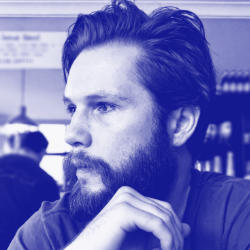
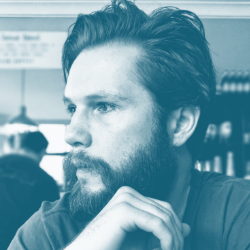
Push to prod

diff --git a/public/js/bundle.js b/public/js/bundle.js
@@ -1024,13 +1024,13 @@ function data$3() {
 }
 
 function encapsulateStyles(node) {
-	setAttribute(node, "svelte-3632610254", "");
+	setAttribute(node, "svelte-3470831650", "");
 }
 
 function add_css() {
 	var style = createElement("style");
-	style.id = 'svelte-3632610254-style';
-	style.textContent = "[svelte-3632610254].-simple,[svelte-3632610254] .-simple,[svelte-3632610254].-detailed,[svelte-3632610254] .-detailed{width:100%;display:grid;grid-template-columns:1fr;grid-gap:30px}[svelte-3632610254].-simple .ui-card,[svelte-3632610254] .-simple .ui-card{box-shadow:none}[svelte-3632610254].-mosaic,[svelte-3632610254] .-mosaic{-moz-column-count:1;-moz-column-gap:20px;-webkit-column-count:1;-webkit-column-gap:20px;column-count:1;column-gap:20px;text-align:center}[svelte-3632610254].-mosaic img,[svelte-3632610254] .-mosaic img{margin-bottom:20px;border-radius:5px}[svelte-3632610254].ui-card__details,[svelte-3632610254] .ui-card__details{border:1px solid #ccc}@media(min-width: 500px){[svelte-3632610254].-simple,[svelte-3632610254] .-simple,[svelte-3632610254].-detailed,[svelte-3632610254] .-detailed{grid-template-columns:repeat(2, 1fr)}[svelte-3632610254].-mosaic,[svelte-3632610254] .-mosaic{-moz-column-count:2;-moz-column-gap:20px;-webkit-column-count:2;-webkit-column-gap:20px;column-count:2}}@media(min-width: 1200px){[svelte-3632610254].-simple,[svelte-3632610254] .-simple,[svelte-3632610254].-detailed,[svelte-3632610254] .-detailed{grid-template-columns:repeat(3, 1fr)}[svelte-3632610254].-mosaic,[svelte-3632610254] .-mosaic{-moz-column-count:3;-moz-column-gap:20px;-webkit-column-count:3;-webkit-column-gap:20px;column-count:3}}[svelte-3632610254].row,[svelte-3632610254] .row{padding-top:2rem;padding-bottom:2rem}[svelte-3632610254].row.-bg,[svelte-3632610254] .row.-bg{background:#f1f1f1}";
+	style.id = 'svelte-3470831650-style';
+	style.textContent = "[svelte-3470831650].-simple,[svelte-3470831650] .-simple,[svelte-3470831650].-detailed,[svelte-3470831650] .-detailed{width:100%;display:grid;grid-template-columns:1fr;grid-gap:30px}[svelte-3470831650].-simple .ui-card,[svelte-3470831650] .-simple .ui-card{box-shadow:none}[svelte-3470831650].-mosaic,[svelte-3470831650] .-mosaic{-moz-column-count:1;-moz-column-gap:20px;-webkit-column-count:1;-webkit-column-gap:20px;column-count:1;column-gap:20px;text-align:center}[svelte-3470831650].-mosaic img,[svelte-3470831650] .-mosaic img{margin-bottom:20px;border-radius:5px}[svelte-3470831650].ui-card__details,[svelte-3470831650] .ui-card__details{border:1px solid #ccc}@media(min-width: 500px){[svelte-3470831650].-simple,[svelte-3470831650] .-simple,[svelte-3470831650].-detailed,[svelte-3470831650] .-detailed{grid-template-columns:repeat(2, 1fr)}[svelte-3470831650].-mosaic,[svelte-3470831650] .-mosaic{-moz-column-count:2;-moz-column-gap:20px;-webkit-column-count:2;-webkit-column-gap:20px;column-count:2}}@media(min-width: 1200px){[svelte-3470831650].-simple,[svelte-3470831650] .-simple,[svelte-3470831650].-detailed,[svelte-3470831650] .-detailed{grid-template-columns:repeat(3, 1fr)}[svelte-3470831650].-mosaic,[svelte-3470831650] .-mosaic{-moz-column-count:3;-moz-column-gap:20px;-webkit-column-count:3;-webkit-column-gap:20px;column-count:3}}[svelte-3470831650].row,[svelte-3470831650] .row{padding-top:2rem;padding-bottom:2rem}[svelte-3470831650].row.-bg,[svelte-3470831650] .row.-bg{background:#f1f1f1}[svelte-3470831650].row.-padded,[svelte-3470831650] .row.-padded{padding-left:1rem;padding-right:1rem}";
 	appendNode(style, document.head);
 }
 
@@ -1092,8 +1092,8 @@ function create_main_fragment$4(state, component) {
 
 		h: function hydrate() {
 			encapsulateStyles(div);
-			div_1.className = div_1_class_value = "ui-container -" + state.type;
-			div.className = div_class_value = "row " + (state.type == 'detailed' ? '-bg' : '');
+			div_1.className = div_1_class_value = "ui-container -" + state.type + " -padded";
+			div.className = div_class_value = "row " + (state.type == 'detailed' ? '-bg' : '') + " -padded";
 		},
 
 		m: function mount(target, anchor) {
@@ -1110,11 +1110,11 @@ function create_main_fragment$4(state, component) {
 				await_block_1.p(changed, state, resolved);
 			}
 
-			if (changed.type && div_1_class_value !== (div_1_class_value = "ui-container -" + state.type)) {
+			if (changed.type && div_1_class_value !== (div_1_class_value = "ui-container -" + state.type + " -padded")) {
 				div_1.className = div_1_class_value;
 			}
 
-			if (changed.type && div_class_value !== (div_class_value = "row " + (state.type == 'detailed' ? '-bg' : ''))) {
+			if (changed.type && div_class_value !== (div_class_value = "row " + (state.type == 'detailed' ? '-bg' : '') + " -padded")) {
 				div.className = div_class_value;
 			}
 		},
@@ -1132,24 +1132,29 @@ function create_main_fragment$4(state, component) {
 	};
 }
 
-// (3:25)     <p>loading...</p>   {{then assets}}
+// (3:25)     <div class="ui-block -center">loading...</div>   {{then assets}}
 function create_pending_block(state, _, component) {
-	var p;
+	var div;
 
 	return {
 		c: function create() {
-			p = createElement("p");
-			p.textContent = "loading...";
+			div = createElement("div");
+			div.textContent = "loading...";
+			this.h();
+		},
+
+		h: function hydrate() {
+			div.className = "ui-block -center";
 		},
 
 		m: function mount(target, anchor) {
-			insertNode(p, target, anchor);
+			insertNode(div, target, anchor);
 		},
 
 		p: noop,
 
 		u: function unmount() {
-			detachNode(p);
+			detachNode(div);
 		},
 
 		d: noop
@@ -1700,7 +1705,7 @@ function Showcase(options) {
 	this._state = assign(data$3(), options.data);
 	this._recompute({ dataUrl: 1 }, this._state);
 
-	if (!document.getElementById("svelte-3632610254-style")) add_css();
+	if (!document.getElementById("svelte-3470831650-style")) add_css();
 
 	this._fragment = create_main_fragment$4(this._state, this);
 
@@ -2099,7 +2104,7 @@ function create_main_fragment$7(state, component) {
 			navigation._fragment.c();
 			text = createText("\n");
 			div = createElement("div");
-			div.innerHTML = "<main role=\"main\" class=\"ui-block\"><div class=\"ui-block ui-collection -center\"><img src=\"./assets/img/profile.jpg\" srcset=\"./assets/img/profile@2x.jpg 2x\" alt=\"\" class=\"ui-image -round\"></div>\n\t\t<section class=\"ui-block\"><h1 class=\"ui-heading -primary -center\">Hello, I'm Simon Layfield</h1>\n\t\t\t<p class=\"ui-callout\">I design and build meaningful user experiences into lightweight, scalable web prototypes using frontend technologies like <a href=\"https://svelte.technology\" target=\"_blank\">Svelte</a> and <a href=\"https://rollupjs.org/guide/en\" target=\"_blank\">Rollup</a>.</p>\n\t\t\t<p>Currently, my free time in this area goes towards my personal project, <a href=\"https://typereel-195923.appspot.com/\" target=\"_blank\" class=\"link\">Typereel</a>.</p>\n\t\t\t<div class=\"ui-block -center\"><hr class=\"ui-separator\"></div>\n\t\t\t<p class=\"ui-callout -small\">Other interests include freelance <a href=\"./branding.html\" class=\"link\">branding and illustration</a>, I co-run an online board game shop called <a href=\"http://www.rollersboardgames.com\" class=\"link\">Rollers</a> and play in a band called <a href=\"https://www.facebook.com/youthandtheyoung/\" target=\"_blank\" class=\"link\">Youth &amp; The Young</a>.</p></section></main>";
+			div.innerHTML = "<main role=\"main\" class=\"ui-block\"><div class=\"ui-block -center\"><img src=\"./assets/img/profile.svg\" alt=\"\" class=\"profile-image\"></div>\n\t\t<section class=\"ui-block -padded\"><h1 class=\"ui-heading -primary -center\">Hello, I'm Simon Layfield</h1>\n\t\t\t<p class=\"ui-callout\">I design and build meaningful user experiences into lightweight, scalable web prototypes using frontend technologies like <a href=\"https://svelte.technology\" target=\"_blank\">Svelte</a> and <a href=\"https://rollupjs.org/guide/en\" target=\"_blank\">Rollup</a>.</p>\n\t\t\t<p>Currently, my free time in this area goes towards my personal project, <a href=\"https://typereel-195923.appspot.com/\" target=\"_blank\" class=\"link\">Typereel</a>.</p>\n\t\t\t<div class=\"ui-block -center\"><hr class=\"ui-separator\"></div>\n\t\t\t<p class=\"ui-callout -small\">Other interests include freelance <a href=\"./branding.html\" class=\"link\">branding and illustration</a>, I co-run an online board game shop called <a href=\"http://www.rollersboardgames.com\" class=\"link\">Rollers</a> and play in a band called <a href=\"https://www.facebook.com/youthandtheyoung/\" target=\"_blank\" class=\"link\">Youth &amp; The Young</a>.</p></section></main>";
 			this.h();
 		},
 

diff --git a/public/css/main.css b/public/css/main.css
@@ -1,1 +1,1 @@
-body{font:normal 16px/32px Inconsolata,sans-serif;font:normal 1rem/2rem Inconsolata,sans-serif;color:#333;margin:0;padding:0}#home-container{position:relative;top:-150px}img{max-width:100%}.link,a{color:#0009d1}.ui-callout{font-family:Inconsolata,sans-serif;font-weight:400;font-size:19.2px;font-size:1.2rem;text-align:justify}.ui-callout.-small{font-size:16px;font-size:1rem}.ui-separator{height:2px;border-left:0;border-right:0;border-top:1px solid #222;margin:1em 0;padding:0;display:inline-block;width:200px;border-bottom:none}.ui-block{margin-top:40px;margin-top:2.5rem;margin-bottom:40px;margin-bottom:2.5rem}.ui-block.-center{text-align:center}.ui-block.-padded{padding:16px;padding:1rem}.ui-block.-flat{margin-top:0;margin-bottom:0}.ui-card{background:#fff;border-radius:5px;overflow:hidden;-webkit-box-shadow:5px 5px 15px #ddd;box-shadow:5px 5px 15px #ddd}.label{display:block;padding:1.6px 16px;padding:.1rem 1rem;background:#333;color:#f1f1f1;text-align:center;text-transform:uppercase}.details{padding:24px;padding:1.5rem}.details .ui-heading{margin-top:0}.-highlight{-webkit-transition:all .1s linear;transition:all .1s linear}.-highlight:hover{-webkit-transform:scale(1.01);transform:scale(1.01)}.ui-collection{display:-webkit-box;display:-ms-flexbox;display:flex}.ui-collection.-center{-webkit-box-pack:center;-ms-flex-pack:center;justify-content:center}.ui-container{width:100%;max-width:1200px;margin:0 auto;font-family:Inconsolata,sans-serif}.ui-container.-blog h1,.ui-container.-blog h2,.ui-container.-blog h3{font-family:Source Sans Pro,sans-serif}.ui-container.-blog h1{font-size:40px;font-size:2.5rem}.ui-container.-slim{max-width:800px}.ui-grid{display:grid}.ui-heading{font-family:Source Sans Pro,sans-serif;font-weight:700}.ui-heading.-primary{font-size:32px;font-size:2rem}.ui-heading.-secondary{font-size:25.6px;font-size:1.6rem}.ui-heading.-tertiary{font-size:22.4px;font-size:1.4rem}.ui-heading.-center{text-align:center}.ui-heading>.link{color:#0009d1}.ui-heading:first-child{margin-top:0}.ui-image.-round{border-radius:50%}.ui-navigation{background:#333}.ui-navigation .subnav>.link,.ui-navigation>.link{font:14.4px Inconsolata,sans-serif;font:.9rem Inconsolata,sans-serif;color:#f1f1f1;border:none;outline:none;display:inline;padding:8px 16px;padding:.5rem 1rem;margin:0;text-decoration:none;cursor:pointer;background:transparent;text-transform:uppercase}.ui-navigation.-center{text-align:center}.subnav{background:#000}.app-header{background:#f1f1f1}.app-header.-home{padding-bottom:150px}
+body{font:normal 16px/32px Inconsolata,sans-serif;font:normal 1rem/2rem Inconsolata,sans-serif;color:#333;margin:0;padding:0}#home-container{position:relative;top:-150px}img{max-width:100%}.profile-image{width:200px}.link,a{color:#0063c7}.ui-callout{font-family:Inconsolata,sans-serif;font-weight:400;font-size:19.2px;font-size:1.2rem}.ui-callout.-small{font-size:16px;font-size:1rem}.ui-separator{height:2px;border-left:0;border-right:0;border-top:1px solid #222;margin:1em 0;padding:0;display:inline-block;width:200px;border-bottom:none}.ui-block{margin-top:40px;margin-top:2.5rem;margin-bottom:40px;margin-bottom:2.5rem}.ui-block.-center{text-align:center}.ui-block.-padded{padding:16px;padding:1rem}.ui-block.-flat{margin-top:0;margin-bottom:0}.ui-card{background:#fff;border-radius:5px;overflow:hidden;-webkit-box-shadow:5px 5px 15px #ddd;box-shadow:5px 5px 15px #ddd}.label{display:block;padding:1.6px 16px;padding:.1rem 1rem;background:#333;color:#f1f1f1;text-align:center;text-transform:uppercase}.details{padding:24px;padding:1.5rem}.details .ui-heading{margin-top:0}.-highlight{-webkit-transition:all .1s linear;transition:all .1s linear}.-highlight:hover{-webkit-transform:scale(1.01);transform:scale(1.01)}.ui-collection{display:-webkit-box;display:-ms-flexbox;display:flex}.ui-collection.-center{-webkit-box-pack:center;-ms-flex-pack:center;justify-content:center}.ui-container{width:100%;max-width:1200px;margin:0 auto;font-family:Inconsolata,sans-serif}.ui-container.-blog h1,.ui-container.-blog h2,.ui-container.-blog h3{font-family:Source Sans Pro,sans-serif}.ui-container.-blog h1{font-size:40px;font-size:2.5rem}.ui-container.-slim{max-width:800px}.ui-grid{display:grid}.ui-heading{font-family:Source Sans Pro,sans-serif;font-weight:700}.ui-heading.-primary{font-size:32px;font-size:2rem}.ui-heading.-secondary{font-size:25.6px;font-size:1.6rem}.ui-heading.-tertiary{font-size:22.4px;font-size:1.4rem}.ui-heading.-center{text-align:center}.ui-heading>.link{color:#0063c7}.ui-heading:first-child{margin-top:0}.ui-image.-round{border-radius:50%}.ui-navigation{background:#333}.ui-navigation .subnav>.link,.ui-navigation>.link{font:14.4px Inconsolata,sans-serif;font:.9rem Inconsolata,sans-serif;color:#f1f1f1;border:none;outline:none;display:inline;padding:8px 16px;padding:.5rem 1rem;margin:0;text-decoration:none;cursor:pointer;background:transparent;text-transform:uppercase}.ui-navigation.-center{text-align:center}.subnav{background:#000}.app-header{background:#f1f1f1}.app-header.-home{padding-bottom:150px}

diff --git a/src/components/Home.html b/src/components/Home.html
@@ -1,8 +1,8 @@
 <Navigation version="home" />
 <div class="ui-container -slim" id="home-container">
 	<main role="main" class="ui-block">
-		<div class="ui-block ui-collection -center"><img src="./assets/img/profile.jpg" srcset="./assets/img/profile@2x.jpg 2x" alt="" class="ui-image -round"></div>
-		<section class="ui-block">
+		<div class="ui-block -center"><img src="./assets/img/profile.svg" alt="" class="profile-image"></div>
+		<section class="ui-block -padded">
 			<h1 class="ui-heading -primary -center">Hello, I'm Simon Layfield</h1>
 			<p class="ui-callout">I design and build meaningful user experiences into lightweight, scalable web prototypes using frontend technologies like <a href="https://svelte.technology" target="_blank">Svelte</a> and <a href="https://rollupjs.org/guide/en" target="_blank">Rollup</a>.</p>
 			<p>Currently, my free time in this area goes towards my personal project, <a href="https://typereel-195923.appspot.com/" target="_blank" class="link">Typereel</a>.</p>

diff --git a/src/components/Showcase.html b/src/components/Showcase.html
@@ -1,7 +1,7 @@
-<div class="row {{type == 'detailed' ? '-bg' : ''}}">
-	<div class="ui-container -{{type}}">
+<div class="row {{type == 'detailed' ? '-bg' : ''}} -padded">
+	<div class="ui-container -{{type}} -padded">
 		{{#await showcaseData}}
-			<p>loading...</p>
+			<div class="ui-block -center">loading...</div>
 		{{then assets}}
 			{{#if type == "mosaic"}}
 
@@ -121,6 +121,10 @@
 	}
 	.row.-bg {
 		background: #f1f1f1;
+	}
+	.row.-padded {
+		padding-left: 1rem;
+		padding-right: 1rem;
 	}
 </style>
 

diff --git a/src/css/_settings.css b/src/css/_settings.css
@@ -5,7 +5,7 @@
 	--tint-color: #f1f1f1;
 	--supporting-color: #ccc;
 	--primary-color: #333;
-	--secondary-color: #0009D1;
+	--secondary-color: #0063C7;
 }
 
 body {
@@ -22,4 +22,8 @@ body {
 
 img {
 	max-width: 100%;
+}
+
+.profile-image {
+	width: 200px;
 }

diff --git a/src/css/typography.css b/src/css/typography.css
@@ -6,7 +6,7 @@ a, .link {
 	font-family: var(--body-family);
 	font-weight: 400;
 	font-size: 1.2rem;
-	text-align: justify;
+	/* text-align: justify; */
 	&.-small {
 		font-size: 1rem;
 	}
